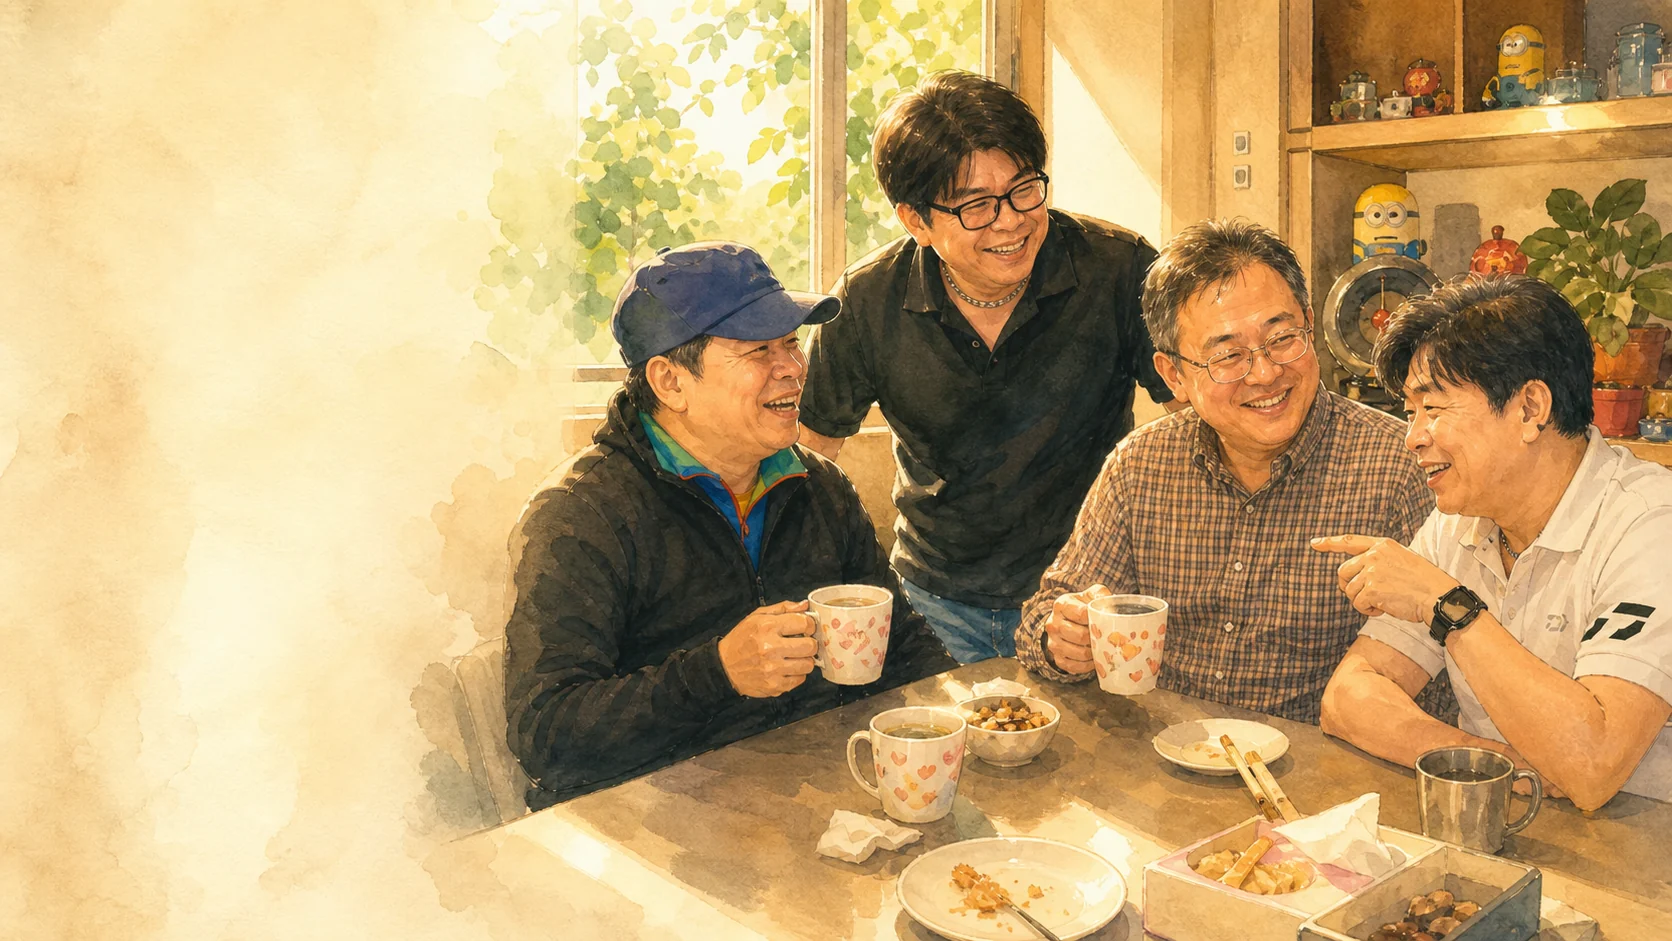
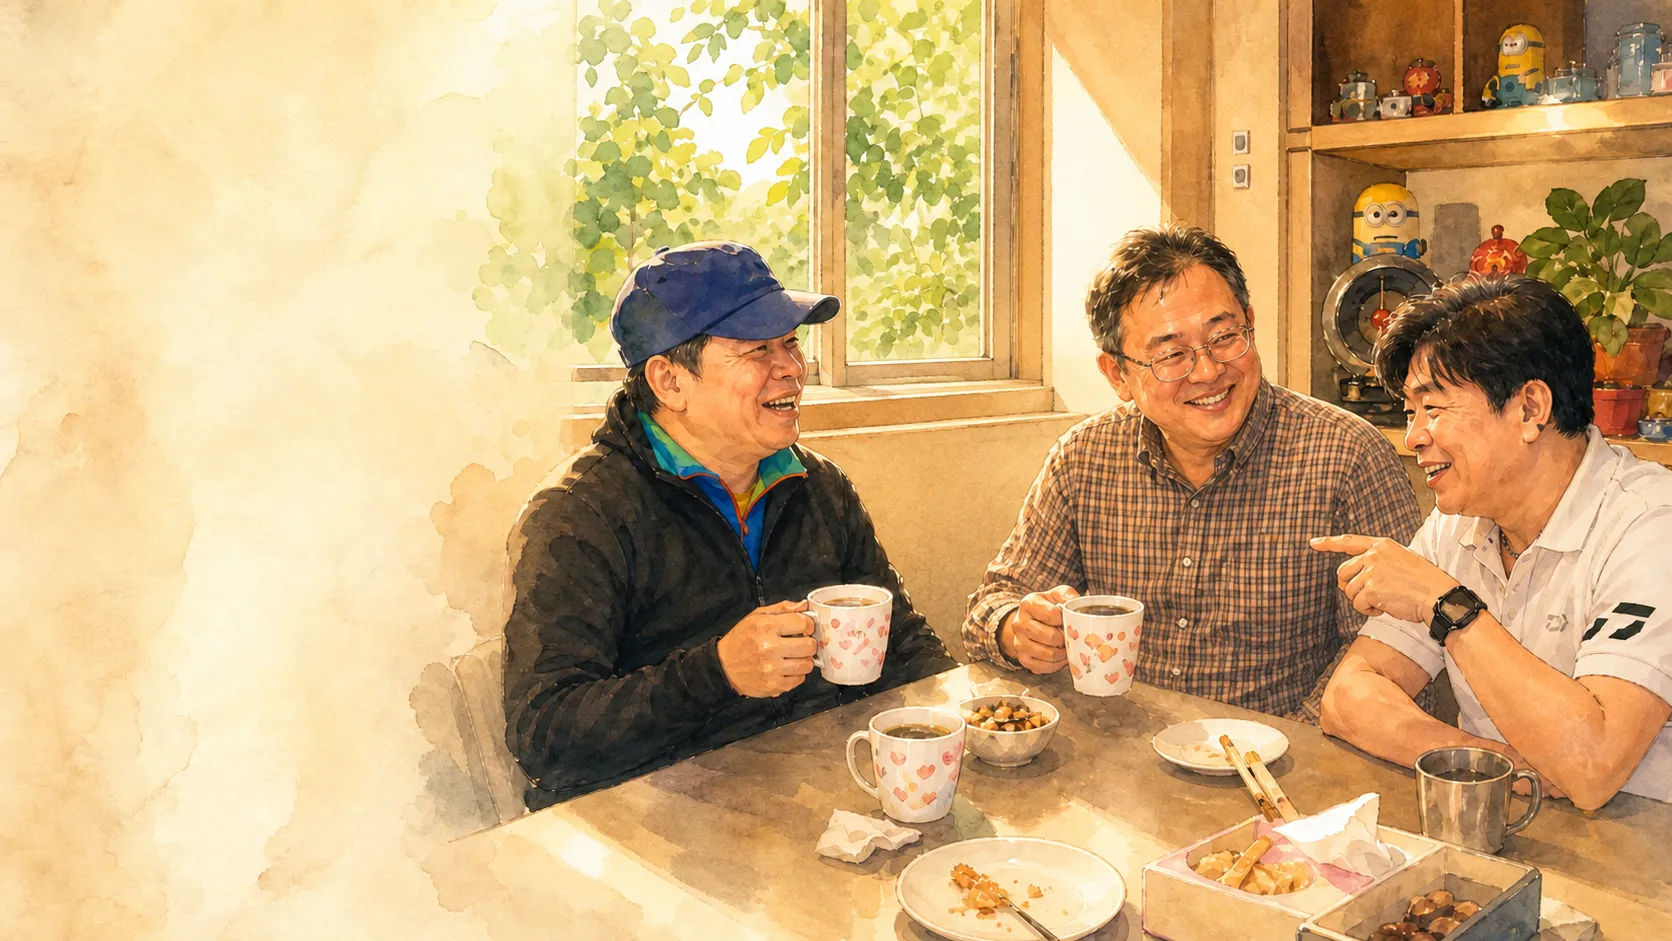
11510301142

diff --git a/C01-AI-Codex-2026/C08-Memories-of-40th-Class-Reunion-1150729/script.js b/C01-AI-Codex-2026/C08-Memories-of-40th-Class-Reunion-1150729/script.js
@@ -11,6 +11,7 @@ const activities = [
   { id:'a07', group:'每月同學聚會', date:'115 年 8 月 24 日', short:'八月份第七次聚會', folder:'A07-1150824-八月份第七次聚會', photos:['A01-正芬姐公司的衣服送三件給川董','A02-川董生日小胖也來慶祝-好市多買中餐','A03-公務繁重的川董依然忙碌接電話','A04-簡單採購幾樣餐點','A05-好市多鮭魚壽司和蝦仁炒飯','A06-川董生日開心聚餐'] },
   { id:'a08', group:'每月同學聚會', date:'115 年 9 月 16 日', short:'九月份聚會－今年第八次', folder:'A08-1150916-九月份聚會-今年第八次', photos:['A01-買好午餐準備用餐川董依然忙碌','A02-用餐前合照、壽司和烤雞','A03-加上宜蘭蒜味肉羹，芭樂汁，還有紅豆湯和飯後咖啡','A04-酒足飯堡的小胖，躺在沙發睡著了'] },
   { id:'a09', group:'每月同學聚會', date:'115 年 10 月 6 日', short:'十月份聚會－今年第九次', folder:'A09-1151006-十月份聚會-今年第九次', photos:['A01-今天聚會前有點感冒，結果聚會結束到醫院看診為A流','A02-聚會討論議題一-2026台北市長選舉','A03-討論議題二-五年級和九年級時代不同所得到服利','A04-關廟麵加餛飩','A05-聚餐前先拿乖乖照相，就是要他們乖乖','A06-每人都一大碗關廟麵，不過他們辣椒放太多','A07-看起來我的手藝不錯','A08-正芬姐送的制服，下次都要穿這件來'] },
+  { id:'a10', group:'每月同學聚會', date:'115 年 10 月 27 日', short:'十月份聚會－2026 年第十次聚會', folder:'A10-1151027-十月份-第10次聚會', photos:['A01-十月份聚會好市多餐點為主','A02-非常認真的準備用餐，準備沾醬','A03-一起穿著正芬姐發的制服','A04-米其林陳大廚特製玉米濃湯','A05-川董獨照','A06-小胖獨照','A07-今天有陳大廚的特製玉米濃湯','A08-看表情就知道非常的滿足','A09-川董照慣例都要裝忙'] },
   { id:'b04', group:'川哥相聚', date:'115 年 7 月 14 日', short:'川哥七月份到好市多吃熱狗後回家喝咖啡', folder:'B03-1150714-川哥七月份到好市多吃熱夠後回家喝咖啡', photos:['B03-1150714-1','B03-1150714-2','B03-1150714-3'] },
   { id:'b05', group:'川哥相聚', date:'115 年 7 月 24 日', short:'川哥七月份中午買肯德基來家裡享用', folder:'B04-1150724-川哥七月份中午買肯德基來家裡享用', photos:['S__26173455_0','S__26173456_0','S__26173457_0','S__26173458_0','S__26173459_0'] },
   { id:'b06', group:'川哥相聚', date:'115 年 8 月 18 日', short:'川哥到家來品嚐yfc廣東粥', folder:'B05-1150818-川哥到家來品嚐yfc廣東粥', photos:['B05-1-裝忙的川哥','B05-2-進電梯也要裝忙','B05-3-284熱天進門先喝沙士','B05-4-靜靜等待廣東粥完成','B05-5-廣東粥上桌','B05-6-川董認真品嚐','B05A-1-一早的廣東粥菜單','B05A-2-一早的廣東粥菜單','B05A-4-一早的廣東粥菜單','B05A-5-一早的廣東粥菜單','B05A-6-一早的廣東粥菜單','B05A-7-小胖是好市多限定版','B05A-8-小胖是好市多限定版','B05A-9-小胖是好市多限定版'] },
@@ -66,6 +67,15 @@ const photoCaptions = {
   'A03-今天招待不週，只有咖啡餅乾': '今天招待不週，只有咖啡餅乾',
   'A04-川董來二個多小時有一個半小時和客戶講話，並且還很不耐煩': '川董來二個多小時有一個半小時和客戶講話，並且還很不耐煩',
   'A05-三位老人家第二套制服，下次聚會發放': '三位老人家第二套制服，下次聚會發放',
+  'A01-十月份聚會好市多餐點為主': '十月份聚會好市多餐點為主',
+  'A02-非常認真的準備用餐，準備沾醬': '非常認真的準備用餐，準備沾醬',
+  'A03-一起穿著正芬姐發的制服': '一起穿著正芬姐發的制服',
+  'A04-米其林陳大廚特製玉米濃湯': '米其林陳大廚特製玉米濃湯',
+  'A05-川董獨照': '川董獨照',
+  'A06-小胖獨照': '小胖獨照',
+  'A07-今天有陳大廚的特製玉米濃湯': '今天有陳大廚的特製玉米濃湯',
+  'A08-看表情就知道非常的滿足': '看表情就知道非常的滿足',
+  'A09-川董照慣例都要裝忙': '川董照慣例都要裝忙',
 };
 const photoPath = (activity, photo) => `assets/photos/${activity.folder}/${photo}.webp`;
 const timelineList = document.querySelector('#timelineList');
@@ -90,6 +100,29 @@ timelineList.innerHTML = timelineActivities.map(a => `<li class="timeline-item" 
 const groups = ['全部', ...new Set(activities.map(a => a.group))];
 filterRow.innerHTML = groups.map(g => `<button type="button" data-filter="${g}" aria-pressed="${g === activeFilter}">${g}</button>`).join('');
 
+const journals = {
+  a08: { date:'115 年 9 月 16 日', title:'退休後的快樂聚會，<br>四十三年的老友，簡單的幸福。', entries:[
+    ['四十三年的情誼，退休生活的最佳解','從今年三月第一次聚會，到九月已經是第八次了。川董和小胖，每月一次，雷打不動。算算從民國72年上光武工專到現在，整整43年了。人生能有幾個43年，讓你還能和老同學坐下來閒聊？到了奔六的年紀，事業差不多到尾聲，孩子也長大獨立了。什麼都別管，好好過自己的生活，就是我的標準答案。'],
+    ['阿默月餅搭好市多美食，愜意午後小憩','今天的聚會特別一點。小胖家樓下就是阿默蛋糕，他媽媽是房東，所以買了六盒月餅還打八八折。早上九點半出發去萬華創始店，載了小胖後回關渡好市多，買了綜合壽司、炸雞翅和小雞腿，再加上我煮的魚肉羹和紅豆湯，泡杯咖啡，午餐吃得開開心心。不到十二點小班就來了，聊到一點多小旺想睡覺，沙發一躺就是舒服的一小時，我也小睡半小時，就這樣開心結束一天。'],
+    ['AI作伴的閒聊時光，千元內的退休小確幸','聊天沒特別主題，聊聊近況、談談政治。我跟他說我每天都在跟AI互動，語音輸入就像跟真人聊天，不會反抗、不會有情緒，還會乖乖遵守指令，我覺得這樣蠻好的，活在自己的世界裡也玩得蠻久。退休後就這樣，兩個老同學，不用擴展，簡單吃東西聊天，花不到一千塊，聚三個多鐘頭，是很不錯的享受。未來幾年能常常這樣聚會，也是人生不錯的感覺。']
+  ]},
+  a10: { date:'115 年 10 月 27 日', title:'2026 年第十次聚會，還要再約三次', entries:[
+    ['第九次聚會，還要再約三次','2026 年 3 月起，川董和小胖到家裡來聚會，到現在已經九次了。所以我跟他們說，11、12 月這兩個月可以再來三次，湊滿 2026 年的次數。10 月 29 日那天，小胖在月底就已經在約第十次聚會了。其實次數無所謂，一直來常常來當然都可以。同學之間的相聚才是最重要的，聊聊過去，也聊聊未來的發展，我覺得都是很好的事情。'],
+    ['好市多買壽司，回家煮玉米湯','這一次的聚會也很隨興。小胖 11 點到關渡捷運站，接著我們一起去好市多買了些東西。這次都買壽司，比較簡單，也不用再煮。回到家裡，我只煮了一鍋玉米湯。'],
+    ['聊選舉、孩子、身體與未來','聚會過程當中，大家一樣聊聊現在最熱門的話題：熱門的2026年底選舉、孩子的問題、身體的問題，還有未來的問題。聊到最後得到一個結論：我們五年級生，其實已經享受到這個時代的紅利了。每次聚會大概都蠻開心的，十一月份就可以多聚幾次都無所謂。'],
+    ['正芬姐送的衣服','今天還有一件有趣的事。上一次，正芬姐送了小胖和川哥兩件衣服，因為兩個人今天都穿來了，並且今天又發了兩件綠色的。其實還有藍色的，好像下一次可以再拿。'],
+    ['快 60 歲了，更要珍惜','總之我覺得，不管是什麼情況，同學聚會都值得珍惜。因為大家都已經快 60 歲了，好友同學能夠相聚，才是最難能可貴的。']
+  ]}
+};
+function renderJournal(activityId) {
+  const journal = journals[activityId];
+  if (!journal) { journalSection.hidden = true; return; }
+  document.querySelector('#journalKicker').textContent = `本次聚會手記・${journal.date}`;
+  document.querySelector('#journal-title').innerHTML = journal.title;
+  document.querySelector('#journalEntries').innerHTML = journal.entries.map(([heading, body]) => `<section class="journal-entry"><h3>${heading}</h3><p>${body}</p></section>`).join('');
+  journalSection.hidden = false;
+}
+
 function renderPhotos() {
   const term = searchInput.value.trim().toLowerCase();
   const items = activities.flatMap(a => a.photos.map((p, index) => ({a, p, index}))).filter(({a,p}) => {
@@ -99,7 +132,7 @@ function renderPhotos() {
   });
   resultCount.textContent = `顯示 ${items.length} 張照片`;
   photoGrid.innerHTML = items.map(({a,p,index}) => { const caption = photoCaptions[p] || `第 ${index+1} 張照片`; return `<button class="photo-card" type="button" data-image="${photoPath(a,p)}" data-caption="${a.date}・${a.short}・${caption}"><figure><img loading="lazy" src="${photoPath(a,p)}" alt="${a.short}：${caption}"><figcaption><strong>${caption}</strong>${a.date}・${a.short}</figcaption></figure></button>`; }).join('');
-  journalSection.hidden = selectedActivityId !== 'a08';
+  renderJournal(selectedActivityId);
 }
 function showActivity(activityId) {
   const activity = activities.find(a => a.id === activityId);
@@ -123,7 +156,7 @@ timelineList.addEventListener('keydown', e => {
 });
 filterRow.addEventListener('click', e => { const button = e.target.closest('button'); if (!button) return; selectedActivityId = null; activeFilter = button.dataset.filter; filterRow.querySelectorAll('button').forEach(b => b.setAttribute('aria-pressed', String(b === button))); renderPhotos(); });
 searchInput.addEventListener('input', () => { selectedActivityId = null; renderPhotos(); });
-journalLink.addEventListener('click', e => { e.preventDefault(); showActivity('a08'); journalSection.scrollIntoView({behavior:'smooth', block:'start'}); });
+journalLink.addEventListener('click', e => { e.preventDefault(); const targetId = selectedActivityId || 'a08'; showActivity(targetId); journalSection.scrollIntoView({behavior:'smooth', block:'start'}); });
 photoGrid.addEventListener('click', e => { const button = e.target.closest('.photo-card'); if (!button) return; lightboxImage.src = button.dataset.image; lightboxImage.alt = button.dataset.caption; lightboxCaption.textContent = button.dataset.caption; lightbox.showModal(); });
 document.querySelector('#closeLightbox').addEventListener('click', () => lightbox.close());
 lightbox.addEventListener('click', e => { if (e.target === lightbox) lightbox.close(); });

diff --git a/C01-AI-Codex-2026/C08-Memories-of-40th-Class-Reunion-1150729/A01-備份/C08-Memories-of-40th-Class-Reunion-1150729.html b/C01-AI-Codex-2026/C08-Memories-of-40th-Class-Reunion-1150729/A01-備份/C08-Memories-of-40th-Class-Reunion-1150729.html
@@ -1,0 +1,115 @@
+<!doctype html>
+<html lang="zh-Hant">
+<head>
+  <meta charset="utf-8">
+  <meta name="viewport" content="width=device-width, initial-scale=1, viewport-fit=cover">
+  <meta name="description" content="光武工專五專同學四十多年情誼的聚會回憶。">
+  <title>四十多年友誼｜同學聚會回憶</title>
+  <link rel="stylesheet" href="styles.css">
+</head>
+<body data-theme="album">
+  <!--
+  THESIS: 讓一張張日常聚會照串成仍在延續的四十多年友誼，而非一次性的相簿。
+  OWN-WORLD: 深墨綠、校園舊刊黃與洗印照片的暖白；以年代標籤、邊註與相片格做閱讀結構。
+  STORY: 訪客先理解友誼的來處，再沿著近期相聚的節奏回看每一次餐桌與笑聲。
+  FIRST VIEWPORT: 左側是故事標題與閱讀入口，右側是可切換的當期記憶封面照片；時間軸由下方展開。
+  FORM: 校友年刊式的數位照片檔案，採用時間軸記憶方向；seed key 94ef7787。
+  -->
+  <header class="site-header">
+    <a class="wordmark" href="#top" aria-label="回到首頁">光武工專・同學紀錄</a>
+    <nav aria-label="主要導覽">
+      <a href="#story">這段友誼</a>
+      <a href="#journal" id="journalLink">本次手記</a>
+      <a href="#timeline">聚會時間</a>
+      <a href="#gallery">照片回憶</a>
+    </nav>
+    <button class="theme-button" type="button" aria-label="切換網站風格" id="themeButton">風格：懷舊相簿</button>
+  </header>
+
+  <main id="top">
+    <section class="hero" aria-labelledby="hero-title">
+      <div class="hero-copy">
+        <p class="kicker">民國七十二年相識・仍在延續</p>
+        <h1 id="hero-title">四十多年後，<br>仍能一起坐下來。</h1>
+        <p class="hero-lead">從十五歲的工專學生，到今天各自走過人生不同階段的我們，照片留住了每一次吃飯、喝咖啡、聊天與笑聲。</p>
+        <a class="primary-link" href="#gallery">開始翻閱回憶 <span aria-hidden="true">↓</span></a>
+      </div>
+      <figure class="hero-photo">
+        <img src="assets/hero-friendship-illustration.webp" alt="以同學聚會照片為參考繪製的手繪團聚插畫" id="heroImage">
+        <figcaption id="heroCaption">以聚會照片為參考繪製的手繪回憶插畫</figcaption>
+      </figure>
+      <div class="hero-side-note">15 歲相識<br>58 歲再聚</div>
+    </section>
+
+    <section class="story" id="story" aria-labelledby="story-title">
+      <p class="section-label">友誼的來處</p>
+      <div class="story-grid">
+        <h2 id="story-title">一張餐桌，<br>接住了四十多年的時光。</h2>
+        <div>
+          <p>民國七十二年，我們十五歲，帶著青澀與期待進入光武工專。從民國七十九年畢業至今，每個人走出不同的人生路；而今年三月，一場簡單的到家裡聚會，讓久違的同學情誼重新有了固定的節奏。</p>
+          <p>有時是家常飯菜，有時是外帶餐點；桌上有飲料、零食、咖啡，也有說不完的往事與笑聲。這些看似平凡的小事，因為有老同學陪伴，變得格外珍貴。</p>
+        </div>
+      </div>
+    </section>
+
+    <section class="timeline-section" id="timeline" aria-labelledby="timeline-title">
+      <div class="section-heading">
+        <p class="section-label">近期相聚</p>
+        <h2 id="timeline-title">今年的見面，<br>慢慢成為一種默契。</h2>
+      </div>
+      <ol class="timeline" id="timelineList"></ol>
+    </section>
+
+    <section class="gallery-section" id="gallery" aria-labelledby="gallery-title">
+      <div class="gallery-heading">
+        <div>
+          <p class="section-label">照片回憶</p>
+          <h2 id="gallery-title">把相聚的日子，<br>一張張收好。</h2>
+        </div>
+        <label class="search-wrap" for="searchInput">
+          <span class="sr-only">搜尋活動或日期</span>
+          <input id="searchInput" type="search" placeholder="搜尋活動、月份或日期">
+        </label>
+      </div>
+      <div class="journal-section" id="journal" aria-labelledby="journal-title" hidden>
+      <div class="journal-intro">
+        <p class="section-label">本次聚會手記・115 年 9 月 16 日</p>
+        <h2 id="journal-title">退休後的快樂聚會，<br>四十三年的老友，簡單的幸福。</h2>
+      </div>
+      <article class="journal-paper">
+        <section class="journal-entry">
+          <h3>四十三年的情誼，退休生活的最佳解</h3>
+          <p>從今年三月第一次聚會，到九月已經是第八次了。川董和小胖，每月一次，雷打不動。算算從民國72年上光武工專到現在，整整43年了。人生能有幾個43年，讓你還能和老同學坐下來閒聊？到了奔六的年紀，事業差不多到尾聲，孩子也長大獨立了。什麼都別管，好好過自己的生活，就是我的標準答案。</p>
+        </section>
+        <section class="journal-entry">
+          <h3>阿默月餅搭好市多美食，愜意午後小憩</h3>
+          <p>今天的聚會特別一點。小胖家樓下就是阿默蛋糕，他媽媽是房東，所以買了六盒月餅還打八八折。早上九點半出發去萬華創始店，載了小胖後回關渡好市多，買了綜合壽司、炸雞翅和小雞腿，再加上我煮的魚肉羹和紅豆湯，泡杯咖啡，午餐吃得開開心心。不到十二點小班就來了，聊到一點多小旺想睡覺，沙發一躺就是舒服的一小時，我也小睡半小時，就這樣開心結束一天。</p>
+        </section>
+        <section class="journal-entry">
+          <h3>AI作伴的閒聊時光，千元內的退休小確幸</h3>
+          <p>聊天沒特別主題，聊聊近況、談談政治。我跟他說我每天都在跟AI互動，語音輸入就像跟真人聊天，不會反抗、不會有情緒，還會乖乖遵守指令，我覺得這樣蠻好的，活在自己的世界裡也玩得蠻久。退休後就這樣，兩個老同學，不用擴展，簡單吃東西聊天，花不到一千塊，聚三個多鐘頭，是很不錯的享受。未來幾年能常常這樣聚會，也是人生不錯的感覺。</p>
+        </section>
+      </article>
+    </div>
+      <div class="filter-row" id="filterRow" aria-label="篩選活動類型"></div>
+      <p class="result-count" id="resultCount"></p>
+      <div class="photo-grid" id="photoGrid" aria-live="polite"></div>
+    </section>
+  </main>
+
+  <footer>
+    <p>這個網站存放的不只是聚會照片，更是一段跨越四十多年的友誼紀錄。</p>
+    <p>本機私人回憶網站・照片來源保留於原始資料夾</p>
+  </footer>
+
+  <dialog class="lightbox" id="lightbox">
+    <button class="close-button" type="button" aria-label="關閉照片" id="closeLightbox">×</button>
+    <img id="lightboxImage" src="assets/photos/A01-1150304-三月第一次聚會/A01-1150304-1.webp" alt="三月第一次同學聚會照片">
+    <p id="lightboxCaption"></p>
+  </dialog>
+  <script src="script.js"></script>
+</body>
+</html>
+
+
+

diff --git a/C01-AI-Codex-2026/C08-Memories-of-40th-Class-Reunion-1150729/C08-Memories-of-40th-Class-Reunion-1150729.html b/C01-AI-Codex-2026/C08-Memories-of-40th-Class-Reunion-1150729/C08-Memories-of-40th-Class-Reunion-1150729.html
@@ -73,10 +73,10 @@
       </div>
       <div class="journal-section" id="journal" aria-labelledby="journal-title" hidden>
       <div class="journal-intro">
-        <p class="section-label">本次聚會手記・115 年 9 月 16 日</p>
+        <p class="section-label" id="journalKicker">本次聚會手記・115 年 9 月 16 日</p>
         <h2 id="journal-title">退休後的快樂聚會，<br>四十三年的老友，簡單的幸福。</h2>
       </div>
-      <article class="journal-paper">
+      <article class="journal-paper" id="journalEntries">
         <section class="journal-entry">
           <h3>四十三年的情誼，退休生活的最佳解</h3>
           <p>從今年三月第一次聚會，到九月已經是第八次了。川董和小胖，每月一次，雷打不動。算算從民國72年上光武工專到現在，整整43年了。人生能有幾個43年，讓你還能和老同學坐下來閒聊？到了奔六的年紀，事業差不多到尾聲，孩子也長大獨立了。什麼都別管，好好過自己的生活，就是我的標準答案。</p>

diff --git a/C01-AI-Codex-2026/C08-Memories-of-40th-Class-Reunion-1150729/inventory.md b/C01-AI-Codex-2026/C08-Memories-of-40th-Class-Reunion-1150729/inventory.md
@@ -4,12 +4,12 @@
 
 - Word 參考稿：`四十多年友誼.docx`
 - 照片來源：`S00-五專同學聚會`
-- 盤點日期：115 年 10 月 24 日
+- 盤點日期：115 年 10 月 30 日
 
 ## 統計
 
-- 活動資料夾：18 個
-- 可展示照片：79 張
+- 活動資料夾：19 個
+- 可展示照片：88 張
 - 原始圖片格式：14 張 JPG、11 張 JPEG、1 張 PNG
 - 未納入展示：1 個沒有副檔名的檔案，保留於原始資料夾，待日後確認格式與用途。
 
@@ -26,7 +26,7 @@
 
 | 分類 | 活動數 | 照片數 |
 | --- | ---: | ---: |
-| 每月同學聚會 | 9 | 43 |
+| 每月同學聚會 | 10 | 52 |
 | 川哥相聚 | 7 | 35 |
 | 其他同學 | 1 | 1 |
 
